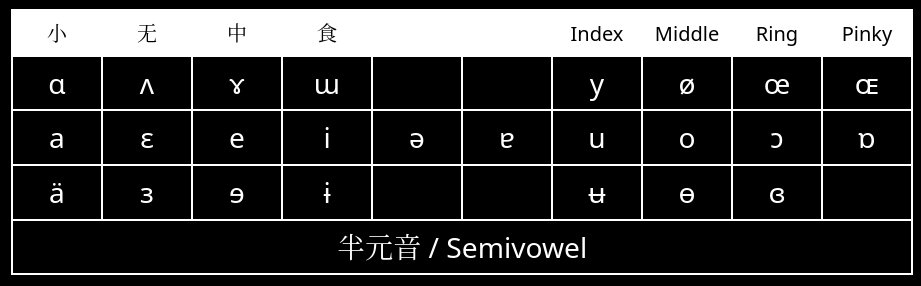
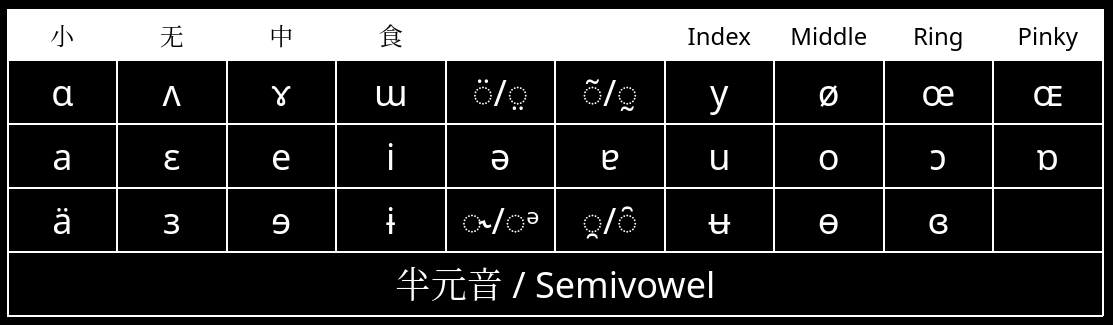
Add Diacritics

diff --git a/README.md b/README.md
@@ -12,10 +12,16 @@
 
 ![Manner of Articulation](image/manner.png)
 
+## 附加符號 / Diacritics
+
+![Diacritics](image/diacritics.png)
+
+![Diacritic Combo](image/diacritic_combo.png)
+
 ## 待辦 / Todo
 
 - [x] Clicks
 - [ ] Brackets
 - [ ] Suprasegmentals
 - [ ] Tone
-- [ ] Diacritics
+- [x] Diacritics
